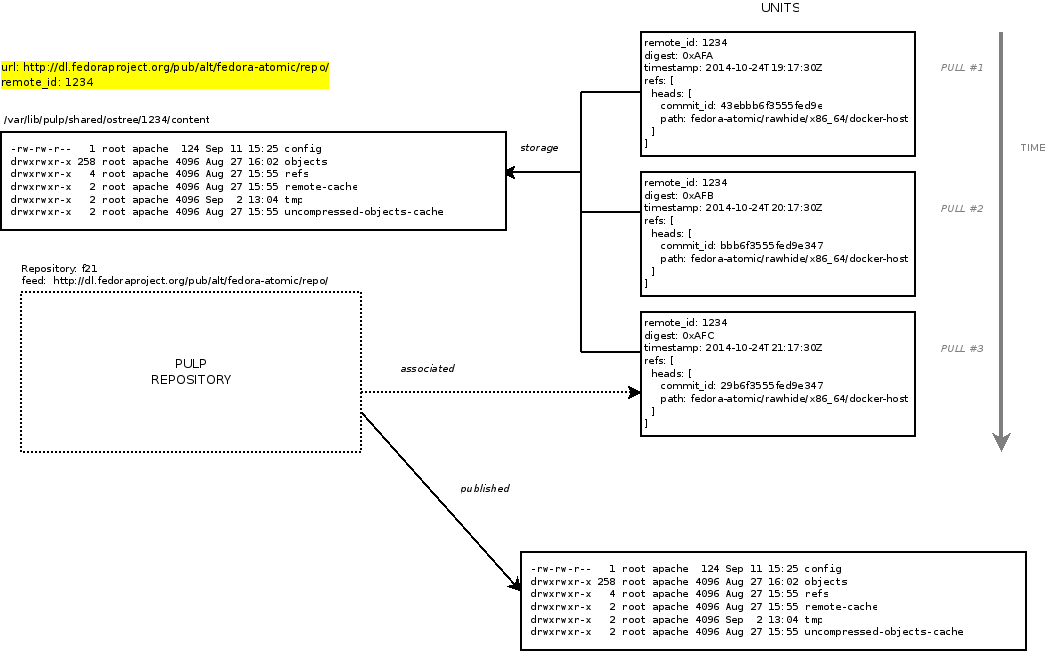
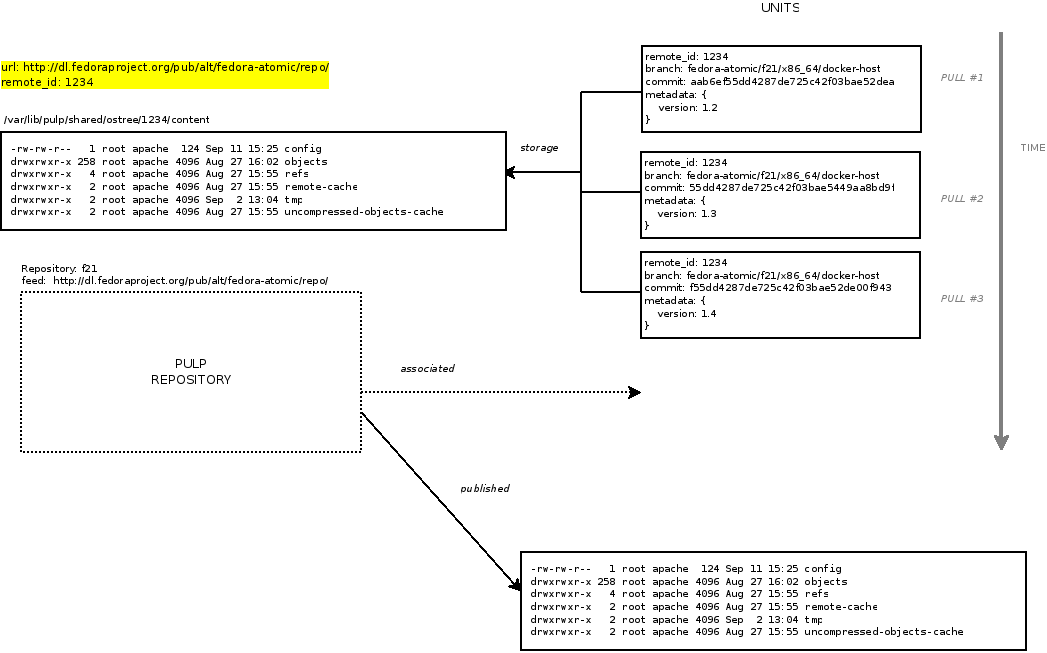
1.1 release notes and docs updates.

diff --git a/docs/user-guide/recipes.rst b/docs/user-guide/recipes.rst
@@ -53,15 +53,62 @@ Fields:
  Updated
    Indicates when the unit associated was last updated.
 
- Timestamp
-   Indicates when the ostree repository :term:`snapshot` was taken.
-
  Remote Id
-   Indicates which :term:`remote` this unit is a snapshot of.
+   Indicates which :term:`remote` this unit (branch) was pulled from.
 
- Digest
-   The :term:`digest` of the :term:`refs` metadata.
+ Branch
+   The branch reference. Each reference is a path to a file containing the branch head commit.
 
- Refs
-   The unit's :term:`refs` metadata.
+ Commit
+   The branch head commit hash.
 
+ Version
+   The (optional) version property contained in the commit metadata.
+
+
+View Summary Information
+------------------------
+
+The summary information fetched from the remote repository can be viewed by listing
+OSTree repositories and including the ``--details`` option::
+
+ $ pulp-admin ostree repo list --details
+ +----------------------------------------------------------------------+
+                          OSTree Repositories
+ +----------------------------------------------------------------------+
+
+ Id:                  f23
+ Display Name:        None
+ Description:         None
+ Content Unit Counts:
+   Ostree: 1
+ Notes:
+ Scratchpad:
+   Remote:
+     Summary:
+       Commit:   099d0138bef28bde23e0bb8cf5377fe549e90f9fe0d28d6c2956fdf86b63e1aa
+       Metadata:
+         Rpmostree-inputhash: 52f47deff0333b5f7c2a950c13d1902f98b3610e11ec1900950
+                              9a775d180ac90
+         Version:             23.44
+       Name:     fedora-atomic/f23/x86_64/docker-host
+       Commit:   8def7a3c424c8439e9807d464255ebabd7798dd649d0f0a6850bab0e18dbcadc
+       Metadata:
+         Rpmostree-inputhash: 5e38595e838c601be3cb8ff8afa574bbd152ea1cccef6605178
+                              45d456cda1edc
+         Version:             23.41
+       Name:     fedora-atomic/f23/x86_64/testing/docker-host
+
+This information is included in the repository ``scratchpad`` and provides a list of branches
+contained within the remote repository.
+
+Fields:
+
+ Name
+   The branch name.
+
+ Commit
+   The branch head commit hash.
+
+ Metadata
+   The commit metadata which by convention may include an optional ``version`` property.

diff --git a/docs/user-guide/release-notes/1.1.x.rst b/docs/user-guide/release-notes/1.1.x.rst
@@ -1,0 +1,35 @@
+=============================
+Pulp OSTree 1.1 Release Notes
+=============================
+
+
+Pulp OSTree 1.1.0
+=================
+
+New Features
+------------
+
+- The importer has the capability to pull *all* branches from the :term:`remote` OSTree repository.
+  This is controlled using the ``branches`` property in the importer configuration. When
+  the ``branches`` property is not specified or has the value of ``nil``, all of the braches
+  are pulled. When the ``branches`` property is set to an empty list ``[]``, no branches will
+  be pulled. This is useful for users that just want to fetch the ``summary`` information.
+
+- The importer now fetches the ``summary`` file from the remote OSTree repository. The
+  ``summary`` file provides a list of branches contained within the remote repository. This
+  information is stored in the Pulp repository scratchpad.
+
+
+API Changes
+-----------
+
+- The ``branches`` property in the importer configuration has changed. Previously, the
+  default value was an empty list. In this release, the default has been changed to ``nil``
+  and the associated behavior is to pull all branches. When the value is an empty list,
+  no branches are pulled.
+
+
+Bugs Fixed
+----------
+
+You can see the :fixedbugs:`list of bugs fixed<1.1.0>`.

diff --git a/docs/concepts.rst b/docs/concepts.rst
@@ -3,11 +3,10 @@ Concepts
 
 .. _OSTree: https://wiki.gnome.org/action/show/Projects/OSTree?action=show&redirect=OSTree
 
-An ostree content unit represents a snapshot of an OSTree_ repository. A Pulp ostree repository
+An ostree content unit represents an OSTree_ branch head. A Pulp ostree repository
 may be synchronized with a :term:`remote` ostree repository. Each content unit created during
-synchronization with (the same) ``remote`` shares filesystem storage. Content units contain
-a snapshot of the repository's :term:`refs` and are uniquely identified by the
-:term:`remote_id` and the :term:`digest` of the unit's metadata.
+synchronization with (the same) ``remote`` shares filesystem storage.
+
 
 A Pulp ostree repository is configured with a list of branch names (or trees) which determines
 which branches are pulled during synchronization with its remote.  The list of branches may

diff --git a/docs/user-guide/configuration.rst b/docs/user-guide/configuration.rst
@@ -13,7 +13,7 @@ The importer supports the settings documented in Pulp's `importer config docs`_ 
 of a the following OSTree specific properties:
 
 - ``branches`` - A list of branch names to be pulled during repository synchronization.
-  Only those branches listed will be pulled.
+  When the value is ``nil`` (or not specified), all branches will be pulled.
 - ``gpg_keys`` - An (optional) list of GPG keys used to validate signed commits.
 
 

diff --git a/docs/user-guide/release-notes/index.rst b/docs/user-guide/release-notes/index.rst
@@ -7,3 +7,4 @@ Contents:
    :maxdepth: 2
 
    1.0.x
+   1.1.x
